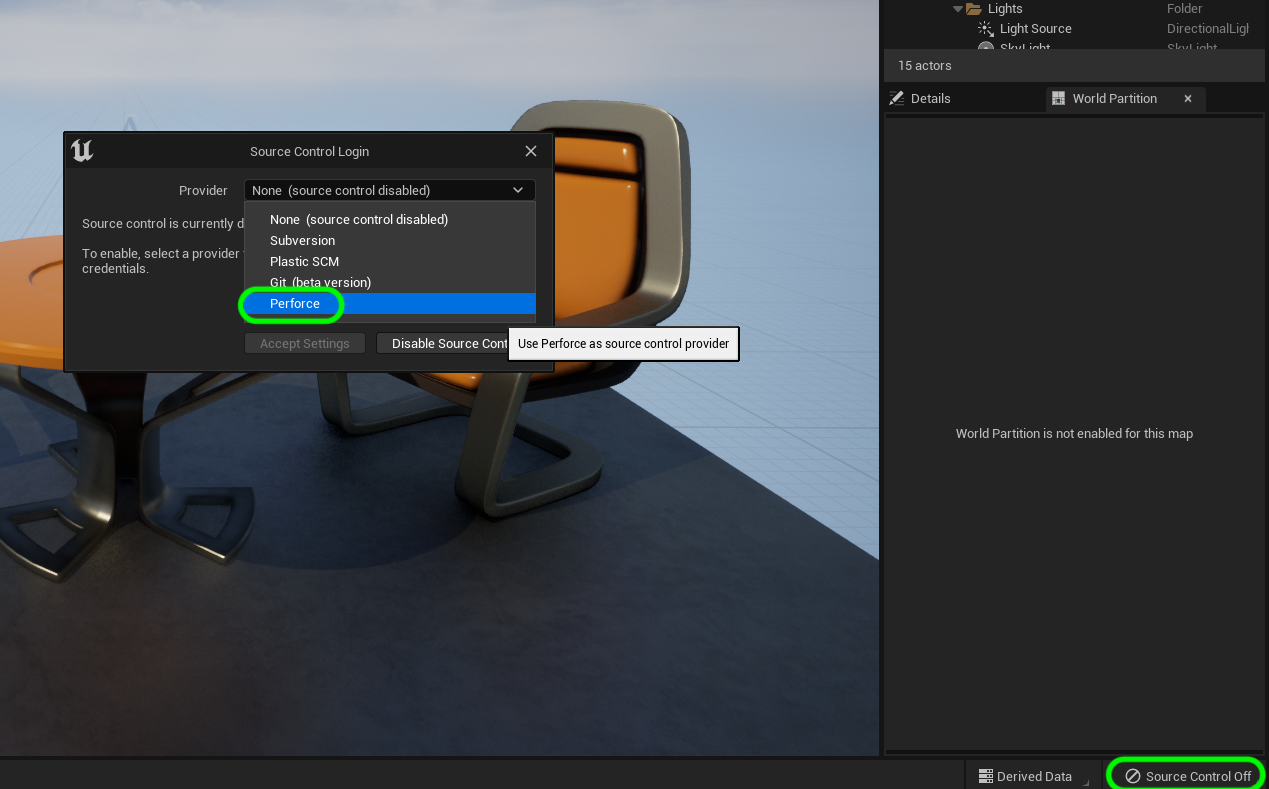
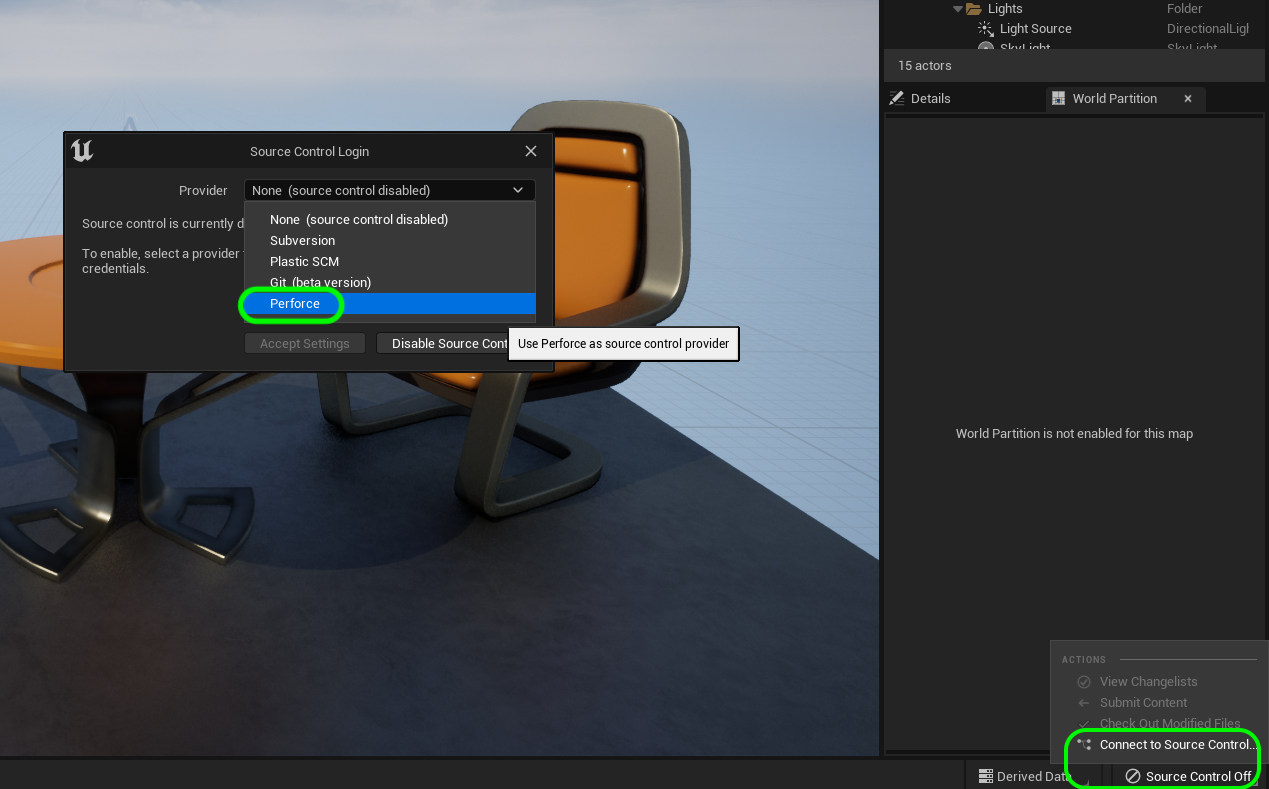
ue4 hello world update p4v

Changed region(s): [[0.8298, 0.8213, 1.0, 1.0]]

diff --git a/ue5/README.md b/ue5/README.md
@@ -35,7 +35,7 @@ Go to **Edit | Edtior Preferences** and select **General | Loading & Saving** an
 
 ##### `Step 3.`\|`BTS`|:small_blue_diamond: :small_blue_diamond: :small_blue_diamond:
 
-Now there is a small message on the bottom right stating that source control is not turned on.  Select it and choose **Perforce** from the list.
+Now there is a small message on the bottom right stating that source control is not turned on.  Select it and choose **Connect to Source Control** to bring up the source control menu and then select **Perforce** from the list.
 
 ![turn on source control](images/turnOnSource.png)
 
